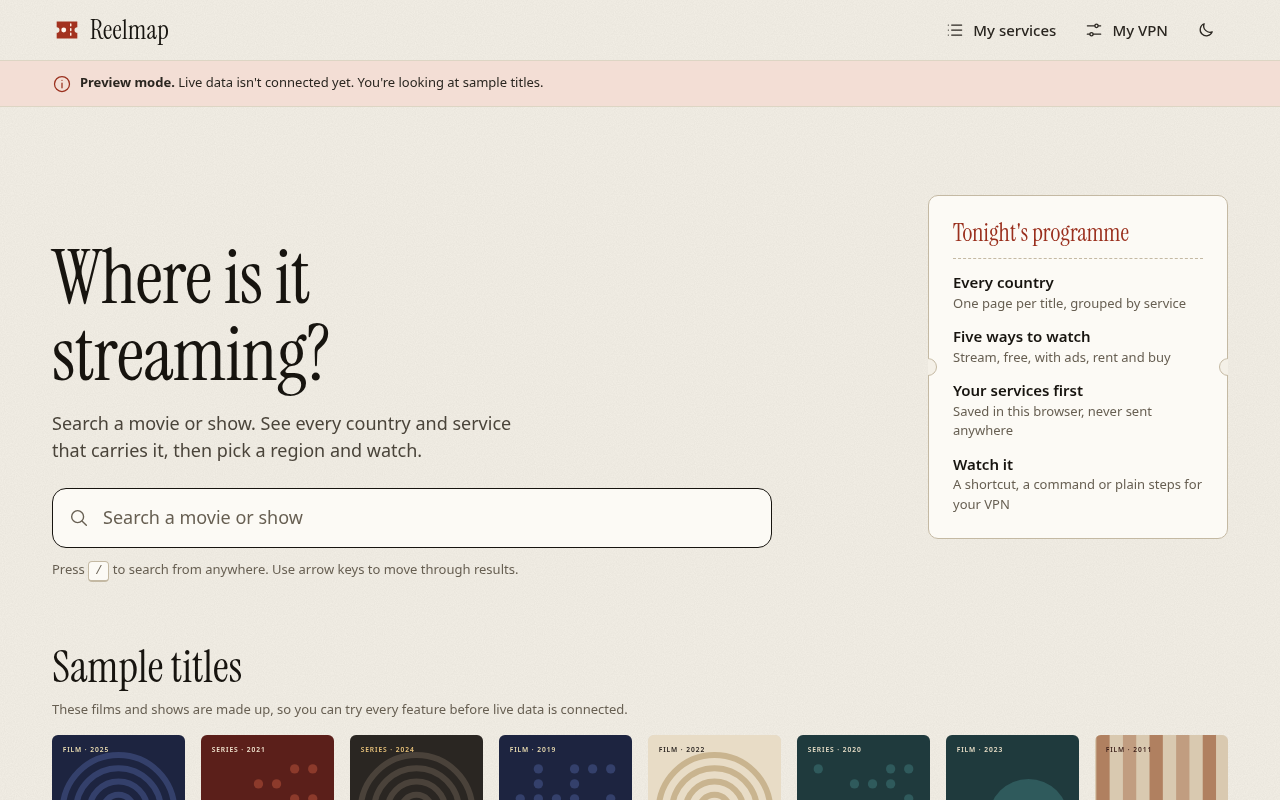
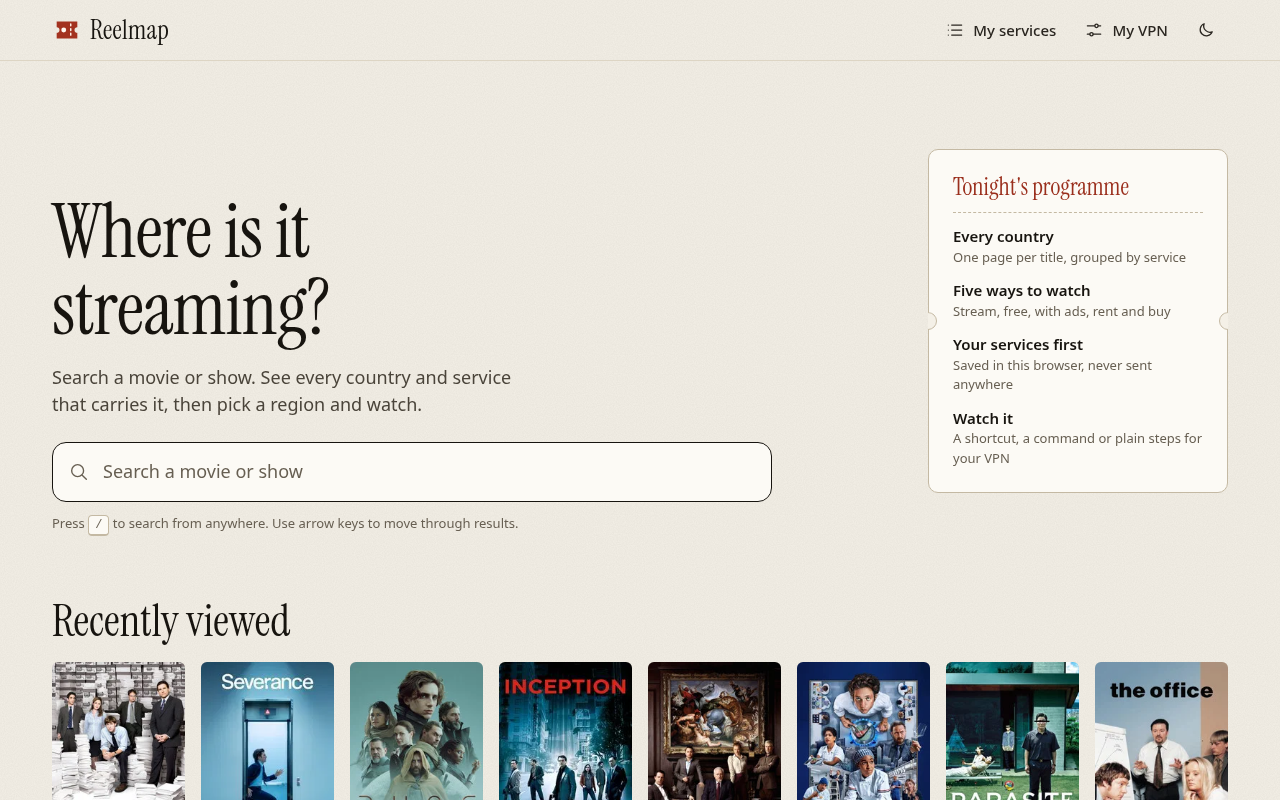
Replace README screenshots with live TMDB data
The committed shots are from watch.hatethespurs.com (The Office and Severance), not preview-mode samples. Preview mode is unchanged for local development without a token.

diff --git a/README.md b/README.md
@@ -12,7 +12,7 @@ Search any movie or show and see which countries and streaming services carry it
 |---|---|
 | <img src="docs/screenshots/home-desktop-light.png" alt="Home page on desktop, light theme"> | <img src="docs/screenshots/title-desktop-dark.png" alt="Title page on desktop, dark theme"> |
 
-All screenshots are in [docs/screenshots](docs/screenshots). They come from preview mode, so every title in them is made up.
+All screenshots are in [docs/screenshots](docs/screenshots). They were taken on the live site with real TMDB data.
 
 ## Features
 
@@ -84,7 +84,7 @@ BASE_URL=https://watch.hatethespurs.com npm run e2e   # same suite against a liv
 PREVIEW=1 BASE_URL=https://watch.hatethespurs.com npm run e2e   # live site still in preview mode (no token)
 npm run typecheck
 npm run lint
-npm run screenshots # regenerate docs/screenshots
+npm run screenshots # regenerate docs/screenshots from local preview mode
 ```
 
 The e2e run starts two local servers: one in preview mode and one in live mode against a mocked TMDB. Every test fails on any console error or warning.
